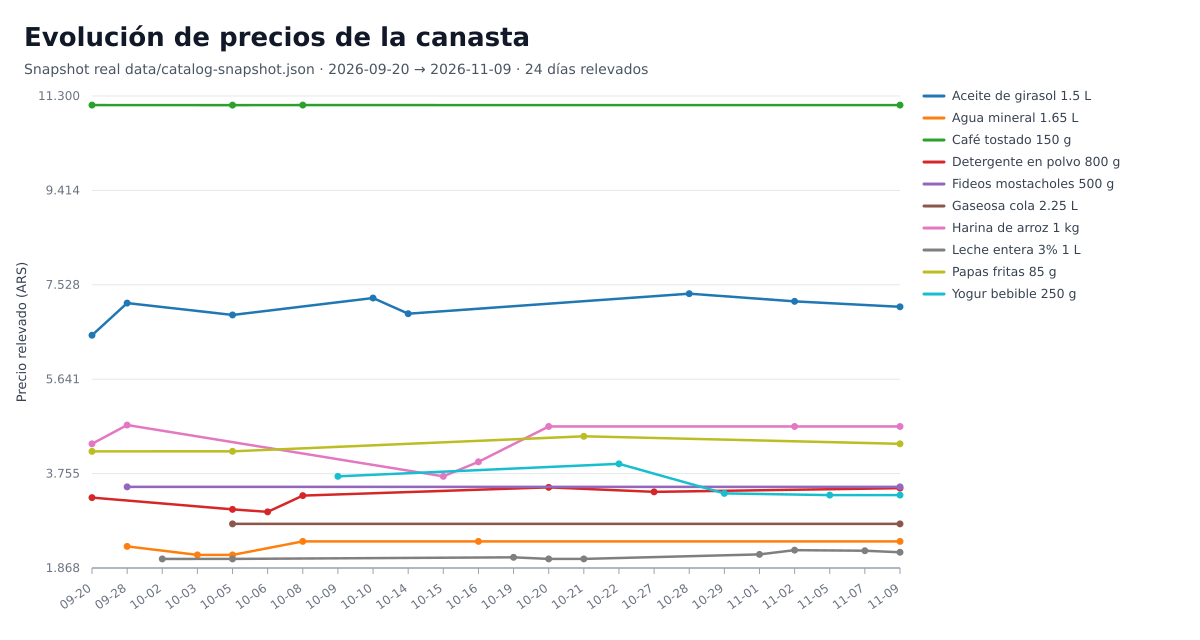
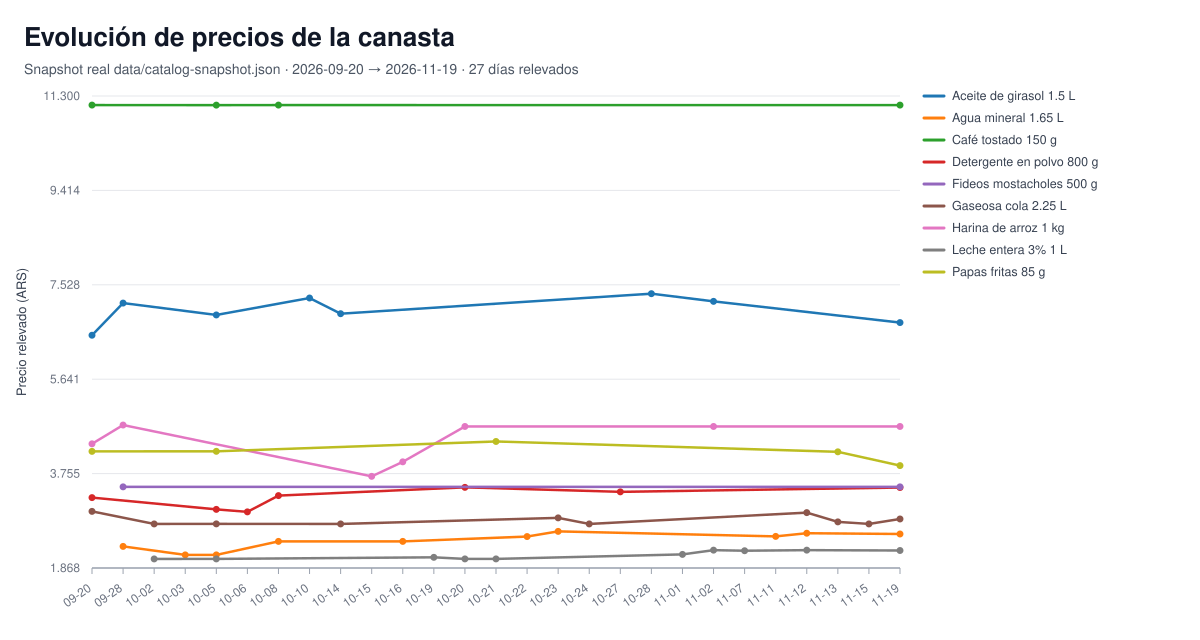
docs(readme): describe the live basket index and refresh the price chart

diff --git a/README.md b/README.md
@@ -57,17 +57,17 @@ precios a Parquet y la modela con DuckDB + dbt (`analytics/`):
 <!-- price-chart:start -->
 ![Evolución de precios de la canasta](analytics/assets/price-evolution.png)
 
-Fuente: snapshot real `data/catalog-snapshot.json` · Rango 2026-09-20 → 2026-11-09 · 24 días relevados.
+Fuente: snapshot real `data/catalog-snapshot.json` · Rango 2026-09-20 → 2026-11-19 · 27 días relevados.
 <!-- price-chart:end -->
 
 - `scripts/export-price-series.ts` escribe una fila por (fecha, GTIN-14, súper)
   desde `price_history` y el estado de cada oferta; un valor con más de 24 h sin
   observarse queda nulo con un motivo explícito.
 - El job diario sube un Parquet por día al release `analytics-data`
-  (`scripts/analytics-data.sh`). El modelo de un índice Laspeyres de canasta fija
-  para comparar con el IPC del INDEC está armado, pero todavía no produce valores:
-  `data/analytics/basket-index.json` declara `status: "insufficient"` hasta
-  juntar la serie que necesita.
+  (`scripts/analytics-data.sh`). Un índice Laspeyres de canasta fija (12
+  productos) se calcula desde toda esa historia y se compara con el IPC del INDEC:
+  la serie arranca el 3/10/2026 y `/inflacion` la muestra contra el IPC de
+  octubre, con la cobertura del último día relevado.
 - La página `/inflacion` renderiza `data/analytics/basket-index.json`
   precalculado: no hay base de datos en el camino de lectura. Mientras la serie
   no tenga al menos dos meses de canasta y un mes de IPC del INDEC superpuesto,
@@ -113,9 +113,9 @@ Postgres están en [docs/RUNBOOK.md](docs/RUNBOOK.md).
 - La frescura depende del refresh diario: el sitio siempre muestra el último
   snapshot commiteado, con su fecha de observación.
 - El índice de canasta de `/inflacion` se recalcula con el refresh diario; su
-  JSON declara la fuente, la cobertura y el estado, y hasta que exista la
-  ventana comparable (2 meses de canasta + 1 mes de IPC superpuesto) la página
-  muestra un estado vacío honesto, sin valores de muestra.
+  JSON declara la fuente, la cobertura y el estado. El ranking de mayores subas
+  y bajas no se publica: con el precio relevado hoy, los inicios y finales de
+  promos y algunos errores de captura dominan ese ranking.
 - Admin: acceso con falla cerrada salvo que la sesión de Clerk tenga el claim exacto de rol admin.
 
 ## Documentación histórica
